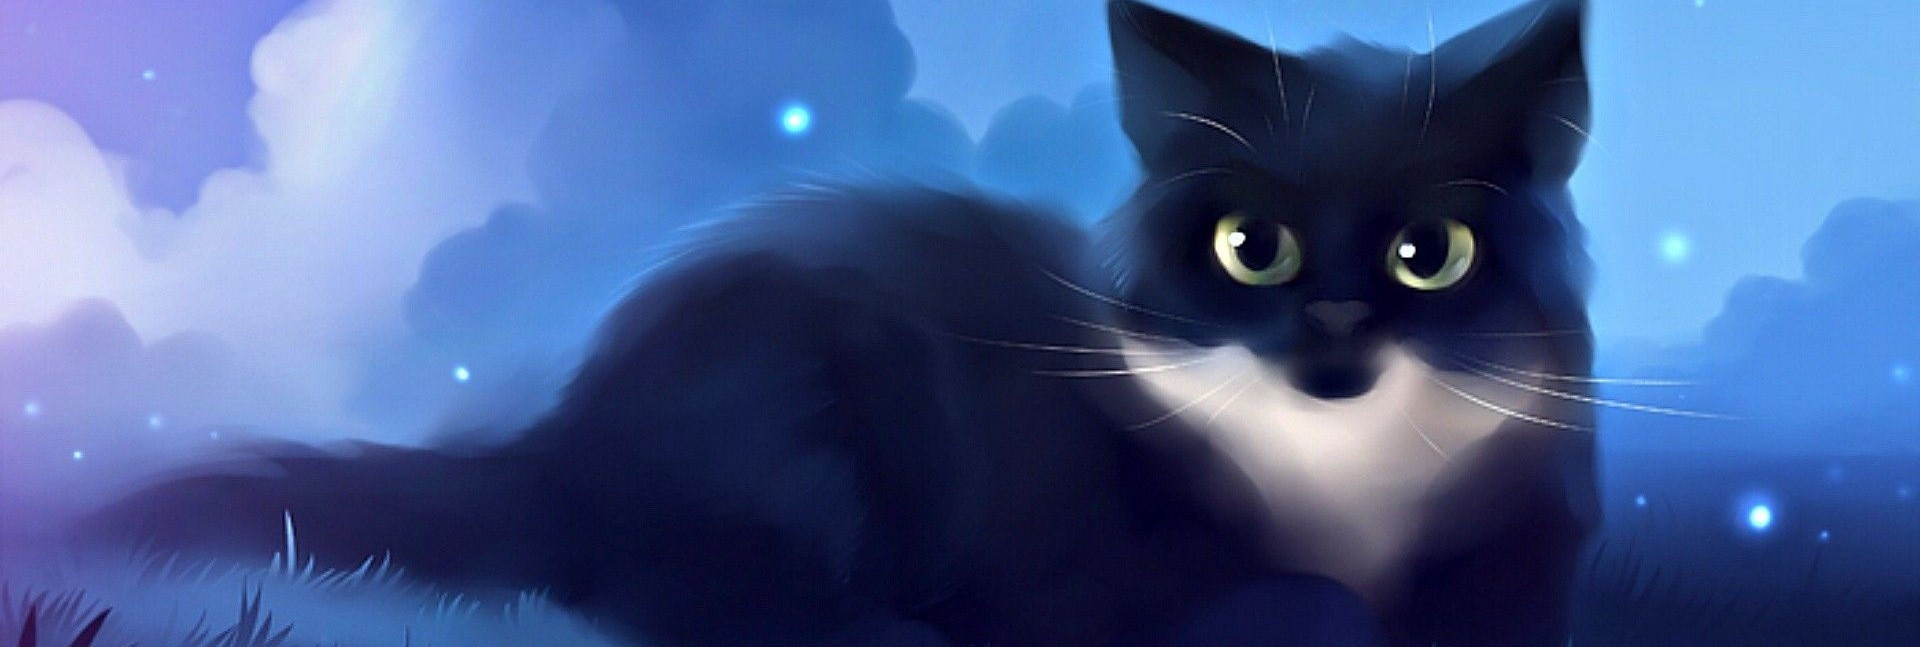
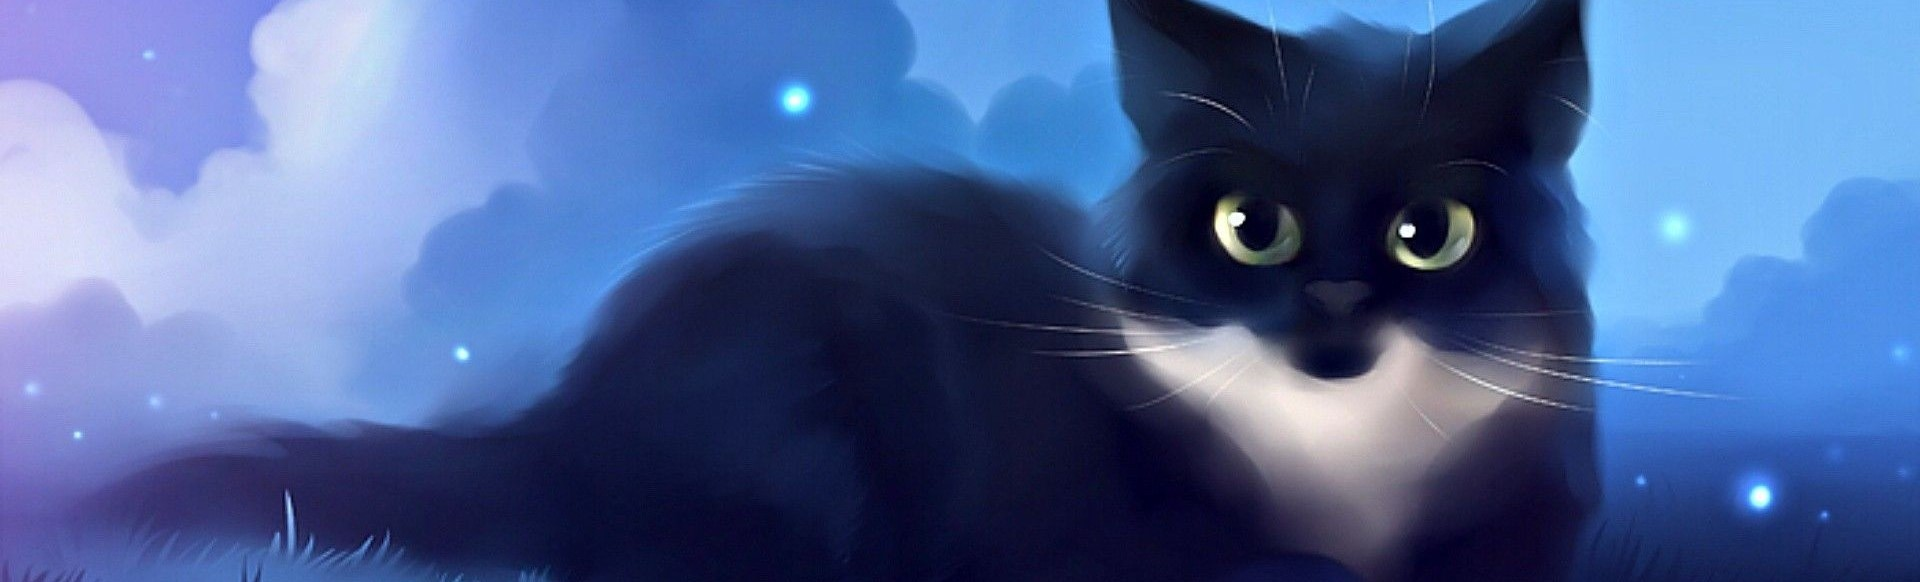
Updating Participant Dashboard
Adding more features to the participant dashboard.

diff --git a/public/stylesheets/dashboard.css b/public/stylesheets/dashboard.css
@@ -66,7 +66,7 @@
     /*position: relative;*/
     border: 10px solid;
     width:100%;
-    height: 450px;
+    height: 400px;
 	background-image: url("/static/images/cat.jpg");
 	background-size: auto;
     background-repeat: no-repeat;
